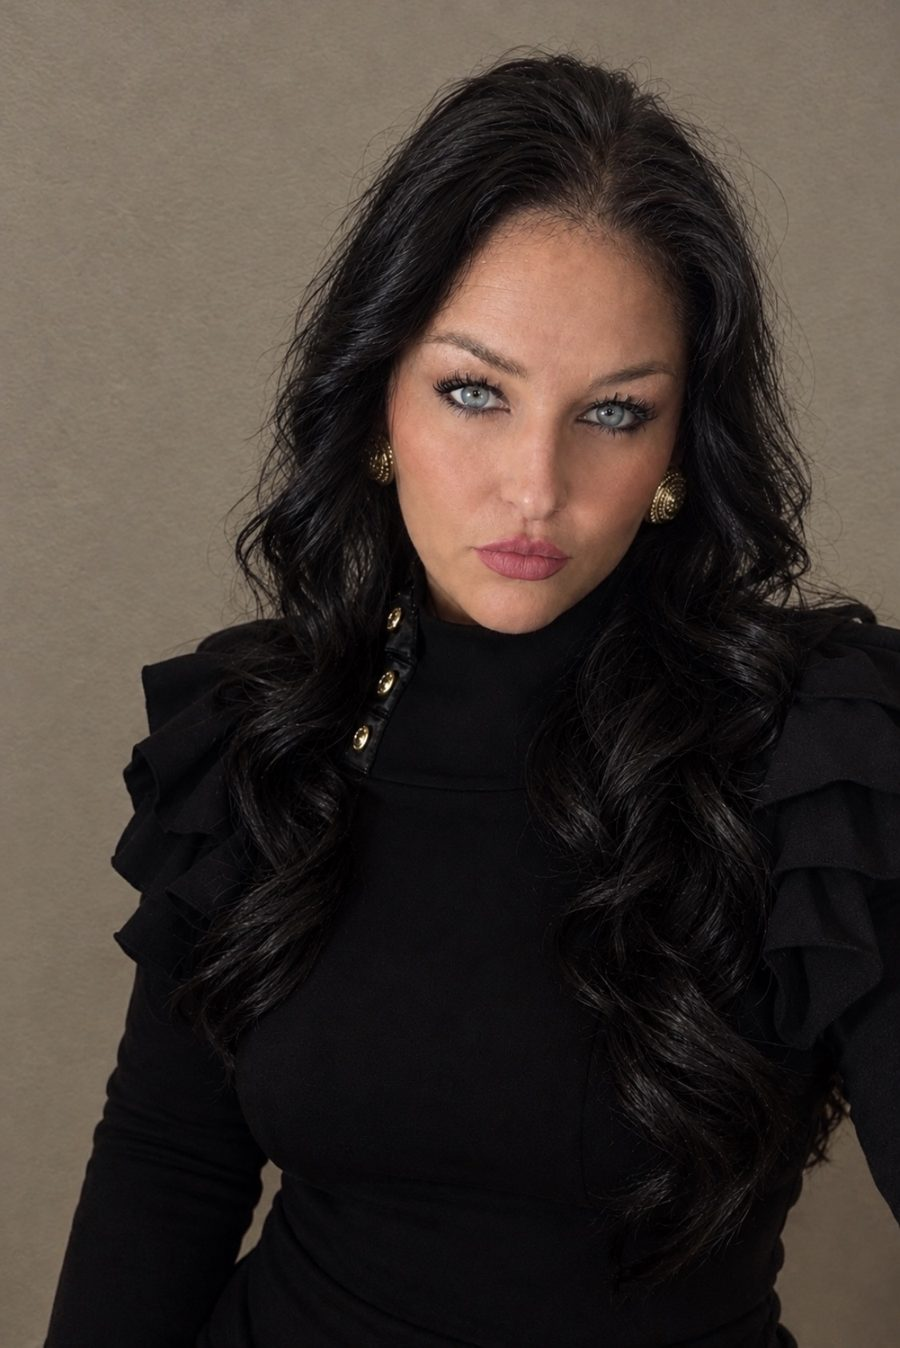
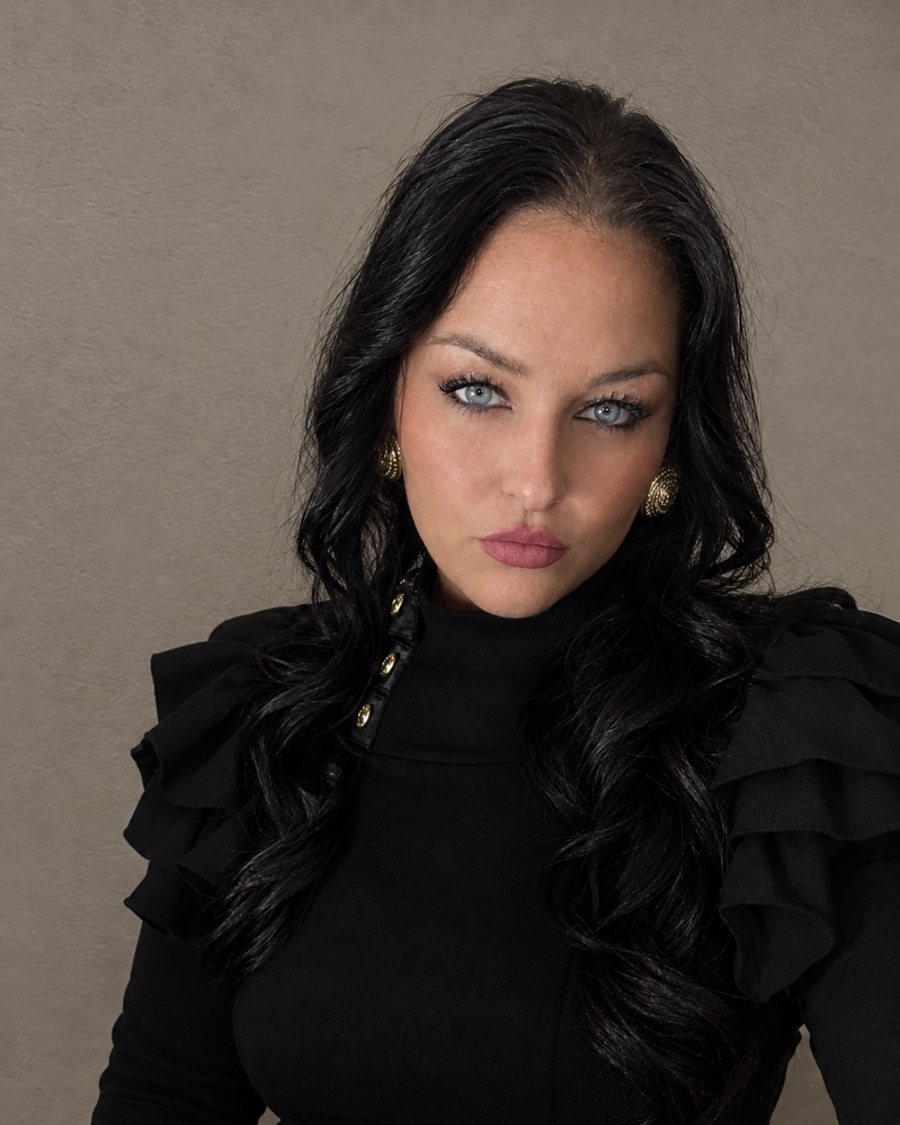
Founder page: photo B, chest-up crop, smaller and lower; remove radio photo

diff --git a/founder.html b/founder.html
@@ -18,9 +18,9 @@ nav.top{display:flex;gap:20px;flex-wrap:wrap;padding:18px 0;font-family:system-u
 .sans{font-family:system-ui,sans-serif}
 
 /* Hero: the portrait and the line she is known for */
-.hero{display:grid;grid-template-columns:minmax(0,5fr) minmax(0,6fr);gap:44px;align-items:end;padding:48px 0 56px}
-.hero figure{margin:0}
-.hero img{display:block;width:100%;height:auto;border-radius:4px}
+.hero{display:grid;grid-template-columns:minmax(0,4fr) minmax(0,7fr);gap:48px;align-items:center;padding:72px 0 64px}
+.hero figure{margin:32px 0 0}
+.hero img{display:block;width:100%;height:auto;aspect-ratio:4/5;object-fit:cover;object-position:50% 0;border-radius:4px}
 .hero h1{font-size:clamp(2.4rem,6vw,4.2rem);line-height:1.02;margin:0 0 14px;letter-spacing:-.015em;font-weight:normal}
 .role{font-family:system-ui,sans-serif;color:var(--dim);margin:0 0 34px;font-size:1rem}
 .bathtub{margin:0;padding:0 0 0 22px;border-left:4px solid var(--red);font-size:clamp(1.25rem,2.4vw,1.6rem);line-height:1.4}
@@ -82,7 +82,7 @@ footer{border-top:1px solid var(--line);padding:30px 0 60px;font-family:system-u
 
 @media (max-width:760px){
   .hero{grid-template-columns:1fr;gap:28px;padding-top:28px}
-  .hero figure{max-width:420px}
+  .hero figure{max-width:300px;order:2;margin:8px 0 0}
   .origin{grid-template-columns:1fr}
   .origin figure{max-width:420px}
   ol.timeline li{grid-template-columns:1fr;gap:2px}
@@ -113,7 +113,7 @@ footer{border-top:1px solid var(--line);padding:30px 0 60px;font-family:system-u
 </header>
 
 <section aria-labelledby="why">
-  <div class="origin">
+  <div>
     <div class="prose">
       <h2 id="why">Why she fights</h2>
       <p>Fawn’s family has been in Texas for seven generations. In East Texas, families drink from their own wells, and most of that water comes from the Carrizo-Wilcox Aquifer under the pines.</p>
@@ -122,10 +122,6 @@ footer{border-top:1px solid var(--line);padding:30px 0 60px;font-family:system-u
       <p>She has run businesses since she was 19 and co-owns Zion Auto Glass in Lufkin. She is a mother.</p>
       <p>She is also a self-taught systems architect. Through her company, Grail Systems, she designed and built the coalition’s public tools, including the Aquifer Defense Grid and the records request tracker.</p>
     </div>
-    <figure>
-      <img src="img/fawn-kfox.jpg" width="800" height="752" alt="Black-and-white photo of a younger Fawn seated at a radio studio microphone, KFOX 95.5 sign on the wall" loading="lazy">
-      <figcaption>Before the fight: at the KFOX 95.5 studio.</figcaption>
-    </figure>
   </div>
 </section>
 
